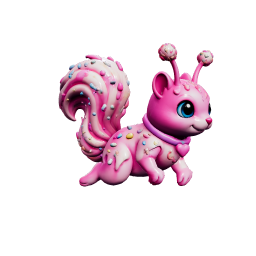
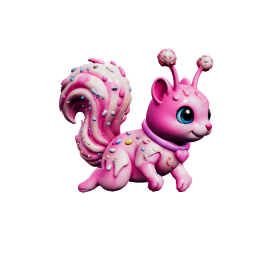
rig3d: a second model renders the same banks with no per-model tuning
Owner: "let's test the theory. how well does using that other models rig,
instantly translate, provide the exact same frames and exact same
experience." Tested on a sci-fi robot squirrel Tripo rigged differently.
Three general fixes it exposed:

- the tail is picked FIRST (heaviest chain), then the legs: its ten-bone
  tail curls below its feet and had been taken for a hind leg
- "straight out" is measured along the tail's joints, opened by however
  much the pose unrolls it, not along the plume's mass: the robot's coil
  sits forward over its back, 56 degrees off its chain, and every swing
  hung the tail straight down. Both tails now land within 6 degrees of
  straight out, curled or unrolled
- past straight out the swing is in plain degrees (70 per unit), the same
  on every model; the root hinge turns at most 95, the next joints share
  any more

Cupcake's frames re-rendered with the same measurement (straight out is
now 13 degrees shallower for it).

Claude-Session: https://claude.ai/code/session_01AxarYXSPHDGFV5QY8gYCSr

Changed region(s): [[0.2188, 0.1562, 0.8438, 0.75]]

diff --git a/tools/rig3d/autorig.js b/tools/rig3d/autorig.js
@@ -12,7 +12,7 @@
 //      bands of the original weights, so a curl tip fused to the root cannot
 //      shortcut), re-weight the tail to it, carry loose pieces (sprinkles)
 //      rigidly, and sharpen the tail/body split everywhere except the true root
-//   4. find where the tail should turn: the plume's own axis (so tailOut: 1 lays
+//   4. find where the tail should turn: the tail chain's own axis (so tailOut: 1 lays
 //      it straight out behind on any model) and the hinge point at the root that
 //      stretches the join least, so the plume swings as one piece and keeps the
 //      shape it was sculpted with
@@ -56,11 +56,14 @@ export async function loadRig(url, opts = {}) {
   for (const s of spinePath) if (s !== head) for (const c of kids[s]) if (!onSpine.has(c)) chains.push(subtree(c));
   const tipY = ch => Math.min(...ch.map(i => wpos(bones[i]).y));
   const verts = ch => ch.reduce((a, i) => a + count[i], 0);
-  // legs: the four chains reaching lowest
-  const legs = chains.slice().sort((a, b) => tipY(a) - tipY(b)).slice(0, 4);
+  // tail FIRST: the heaviest chain of all. Picking the legs first ("the four reaching lowest")
+  // took a tail that curls down below the feet for a hind leg - the robot squirrel's ten-bone
+  // tail flew as a leg and its tail got one stray bone
+  const tailMain = chains.slice().sort((a, b) => verts(b) - verts(a))[0] || [];
+  // legs: the four chains reaching lowest, of the rest
+  const legs = chains.filter(c => c !== tailMain).sort((a, b) => tipY(a) - tipY(b)).slice(0, 4);
   const rest = chains.filter(c => !legs.includes(c));
-  // tail: the heaviest remaining chain; forward runs from its mass to the head
-  const tailMain = rest.slice().sort((a, b) => verts(b) - verts(a))[0] || [];
+  // forward runs from the tail's mass to the head
   const massOf = ch => { const c = new THREE.Vector3(); let n = 0; ch.forEach(i => { c.addScaledVector(cent[i], count[i]); n += count[i]; }); return n ? c.divideScalar(n) : null; };
   const fwd = wpos(bones[head]).sub(massOf(tailMain)); fwd.y = 0; fwd.normalize();
   // any other leftover chain whose mass sits behind the hips is part of the tail too (the base of a big curl)
@@ -266,10 +269,22 @@ export async function loadRig(url, opts = {}) {
   // signed bend of the curl at each joint, about the lateral axis
   const ang = []; for (let k = 1; k < NB; k++) { const a = J[k].clone().sub(J[k - 1]), b = J[k + 1].clone().sub(J[k]); const cr = new THREE.Vector3().crossVectors(a, b); ang.push(Math.atan2(cr.dot(LAT), a.dot(b))); }
   const tailRestQ = tailBones.map(b => b.quaternion.clone());
-  // the plume's own axis, root to the centre of the tail's mass, as an angle in the forward/up
-  // plane; TAIL_OUT is how far the root must turn to lay that axis straight out behind
-  const plume = new THREE.Vector3(); { let n = 0; for (let r = 0; r < M; r++) if (sParam[r] >= 0) { plume.add(RP[r]); n++; } plume.divideScalar(n).sub(J[0]); }
-  const TAIL_OUT = 180 - Math.atan2(plume.dot(UP), plume.dot(fwd)) * 180 / Math.PI;
+  // WHERE "STRAIGHT OUT" IS. tailOut 1 lays the tail's axis (root to the centre of its
+  // joints) straight out behind. An unrolling tail no longer points where its curl did -
+  // unrolled, it lies along its base - so tailOutAt(unfurl) rebuilds the chain in the forward/up plane with the curl opened by
+  // that much, exactly as apply() opens it, and measures where its joints now point. The
+  // robot squirrel's tail curls up and forward over its back, so swinging it by its curled
+  // axis with the curl opened hung it straight down.
+  const rampAt = k => { const r = Math.min(1, Math.max(0, (k - 1) / 3)); return r * r * (3 - 2 * r); };
+  const segLen = [], seg0 = J[1].clone().sub(J[0]); for (let k = 0; k < NB; k++) segLen.push(J[k + 1].distanceTo(J[k]));
+  const a0 = Math.atan2(seg0.dot(UP), seg0.dot(fwd));
+  const axisAt = u => { let a = a0, x = 0, y = 0, sx = 0, sy = 0; for (let k = 0; k < NB; k++) { if (k > 0) a += ang[k - 1] * (1 - u * rampAt(k)); x += Math.cos(a) * segLen[k]; y += Math.sin(a) * segLen[k]; sx += x; sy += y; } return Math.atan2(sy, sx) * 180 / Math.PI; };
+  // measured along the joints, not the mass: the robot's coil sits forward over its back, so
+  // its mass axis ran 56 degrees off the chain and every swing overshot by that much
+  const tailOutAt = u => 180 - axisAt(u);
+  // past straight out (and back past the sculpt's angle) the swing is in plain degrees, the
+  // same on every model, so an overshoot written for one tail is not doubled on another
+  const OVER_DEG = 70;
 
   // THE HINGE. The tail joins the rump across a wide patch, so where it turns matters: turned
   // about the middle of its base, the front of that patch tears off the back and stretches.
@@ -280,7 +295,7 @@ export async function loadRig(url, opts = {}) {
     const tw = new Float32Array(N); for (let i = 0; i < N; i++) for (let k = 0; k < 4; k++) if (si.getComponent(i, k) >= base) tw[i] += sw.getComponent(i, k);
     const E = []; const seen = new Set();
     for (let t = 0; t < ix.length; t += 3) for (const [a, b] of [[ix[t], ix[t + 1]], [ix[t + 1], ix[t + 2]], [ix[t + 2], ix[t]]]) { if (Math.abs(tw[a] - tw[b]) < 1e-3) continue; const k = a < b ? a * N + b : b * N + a; if (seen.has(k)) continue; seen.add(k); E.push(a, b); }
-    const q = new THREE.Quaternion().setFromAxisAngle(LAT, TAIL_OUT * Math.PI / 180), v = new THREE.Vector3(), pa = new THREE.Vector3(), pb = new THREE.Vector3();
+    const q = new THREE.Quaternion().setFromAxisAngle(LAT, tailOutAt(0) * Math.PI / 180), v = new THREE.Vector3(), pa = new THREE.Vector3(), pb = new THREE.Vector3();
     // vertex i (rest position P[i]) with the tail turned straight out about pivot H
     const moved = (i, H, out) => { v.copy(P[i]).sub(H).applyQuaternion(q).add(H); return out.copy(P[i]).lerp(v, tw[i]); };
     const cost = H => { let c = 0; for (let e = 0; e < E.length; e += 2) { const a = E[e], b = E[e + 1], L = P[a].distanceTo(P[b]); if (L < 1e-7) continue; const L1 = moved(a, H, pa).distanceTo(moved(b, H, pb)); c += (L1 - L) * (L1 - L) / L; } return c; };
@@ -299,7 +314,7 @@ export async function loadRig(url, opts = {}) {
   pivot.position.copy(centre); model.position.sub(centre); pivot.add(model);
   // the tail's swing: all at the hinge, so the plume turns as one piece ({ rootSplit: [...] }
   // shares it down the first joints instead, bending the plume's base)
-  const ROOT_SPLIT = opts.rootSplit || [1];
+  const ROOT_SPLIT = opts.rootSplit || [1], ROOT_MAX = opts.rootMax ?? 95;
   const lagAt = (fn, k) => typeof fn === 'function' ? fn(k / (NB - 1), k) : (fn || 0);
   function apply(p) {
     all.forEach((b, i) => b.quaternion.copy(restAll[i]));
@@ -310,11 +325,16 @@ export async function loadRig(url, opts = {}) {
     ears.forEach((i, n) => turn(i, (p.ears || 0) * (n ? 0.85 : 1)));
     front.forEach((ch, n) => { const v = n ? (p.frontR ?? p.front ?? 0) : (p.frontL ?? p.front ?? 0); turn(ch[0], v * 0.55); if (ch[1] != null) turn(ch[1], v * 0.35); if (ch[2] != null) turn(ch[2], -(p.paw || 0) - v * 0.2); });
     hind.forEach((ch, n) => { const v = n ? (p.hindR ?? p.hind ?? 0) : (p.hindL ?? p.hind ?? 0); turn(ch[0], v + (n ? 4 : -4)); if (ch[1] != null) turn(ch[1], p.hindLow || 0); if (ch[2] != null) turn(ch[2], (p.hindLow || 0) * 0.6); });
-    const unf = p.unfurl ?? 0;
+    const unf = p.unfurl ?? 0, out = p.tailOut || 0, outIn = Math.min(1, Math.max(0, out));
+    const outDeg = outIn * tailOutAt(unf) + (out - outIn) * OVER_DEG;
     tailBones.forEach((b, k) => {
       const rootRamp = Math.min(1, Math.max(0, (k - 1) / 3)), ramp = rootRamp * rootRamp * (3 - 2 * rootRamp);
       const bend = k === 0 ? 0 : -ang[k - 1] * unf * ramp * 180 / Math.PI;
-      const deg = ((p.tailOut || 0) * TAIL_OUT + (p.tailRoot || 0)) * (ROOT_SPLIT[k] || 0) + bend + lagAt(p.tail, k);
+      // the root hinge turns at most ROOT_MAX; any more is shared by the next joints, so a
+      // tail that must turn far (the robot's starts pointing up over its back) bends at its
+      // base instead of dragging the rump round with one joint
+      const swing = outDeg + (p.tailRoot || 0), held = Math.max(-ROOT_MAX, Math.min(ROOT_MAX, swing)), extra = swing - held;
+      const deg = held * (ROOT_SPLIT[k] || 0) + (k >= 1 && k <= 3 ? extra / 3 : 0) + bend + lagAt(p.tail, k);
       b.quaternion.copy(tailRestQ[k]).multiply(new THREE.Quaternion().setFromAxisAngle(LAT, deg * Math.PI / 180));
       // tail_00 turns about the hinge, not its own origin
       if (k === 0) b.position.copy(tail0Pos).add(hingeLocal.clone().applyQuaternion(tailRestQ[0])).sub(hingeLocal.clone().applyQuaternion(b.quaternion));
@@ -323,12 +343,12 @@ export async function loadRig(url, opts = {}) {
   }
 
   return {
-    pivot, model, mesh, apply, debug: { sOf: () => sOf, weld, sParam }, centre, LAT, FWD: fwd, UP, all, tailBones,
+    pivot, model, mesh, apply, debug: { sOf: () => sOf, weld, sParam, axisAt, tailOutAt }, centre, LAT, FWD: fwd, UP, all, tailBones,
     info: {
       head: bones[head].name, ears: ears.map(i => bones[i].name), spine: spine.map(i => bones[i].name),
       front: front.map(c => c.map(i => bones[i].name)), hind: hind.map(c => c.map(i => bones[i].name)),
       tail: [...tailSet].map(i => bones[i].name), forward: fwd.toArray().map(x => +x.toFixed(3)),
-      tailBones: NB, tailOutDeg: +TAIL_OUT.toFixed(1), hinge: HP.clone().sub(J[0]).toArray().map(x => +x.toFixed(3)), cutFaces: cut, contactFaces: contact, caps, socketed, looseTailPieces: islands, curlDeg: ang.map(a => +(a * 180 / Math.PI).toFixed(1)),
+      tailBones: NB, tailOutDeg: +tailOutAt(0).toFixed(1), tailOutUnrolledDeg: +tailOutAt(1).toFixed(1), hinge: HP.clone().sub(J[0]).toArray().map(x => +x.toFixed(3)), cutFaces: cut, contactFaces: contact, caps, socketed, looseTailPieces: islands, curlDeg: ang.map(a => +(a * 180 / Math.PI).toFixed(1)),
     },
   };
 }

diff --git a/docs/js/catalog.js b/docs/js/catalog.js
@@ -62,7 +62,7 @@ export const HYPER_RUN_ENABLED = true;
 // Stamped by export-sandbox.mjs at build time, so two approvals of the
 // same day are still tellable apart on the Profile footer. Unbuilt source
 // (labs, tests) shows no stamp rather than a stale one.
-export const BUILD_TIME = "2026-10-26 03:02 UTC";
+export const BUILD_TIME = "2026-10-26 03:24 UTC";
 // THE DEV STAMP ROLLS EVERY CHANGE (owner: "so i can verify it loaded").
 // A version that never moves cannot answer the only question it is read
 // for, which is the hour the owner just lost: new art loaded in a private

diff --git a/docs/js310/catalog.js b/docs/js310/catalog.js
@@ -62,7 +62,7 @@ export const HYPER_RUN_ENABLED = true;
 // Stamped by export-sandbox.mjs at build time, so two approvals of the
 // same day are still tellable apart on the Profile footer. Unbuilt source
 // (labs, tests) shows no stamp rather than a stale one.
-export const BUILD_TIME = "2026-10-26 03:02 UTC";
+export const BUILD_TIME = "2026-10-26 03:24 UTC";
 // THE DEV STAMP ROLLS EVERY CHANGE (owner: "so i can verify it loaded").
 // A version that never moves cannot answer the only question it is read
 // for, which is the hour the owner just lost: new art loaded in a private
